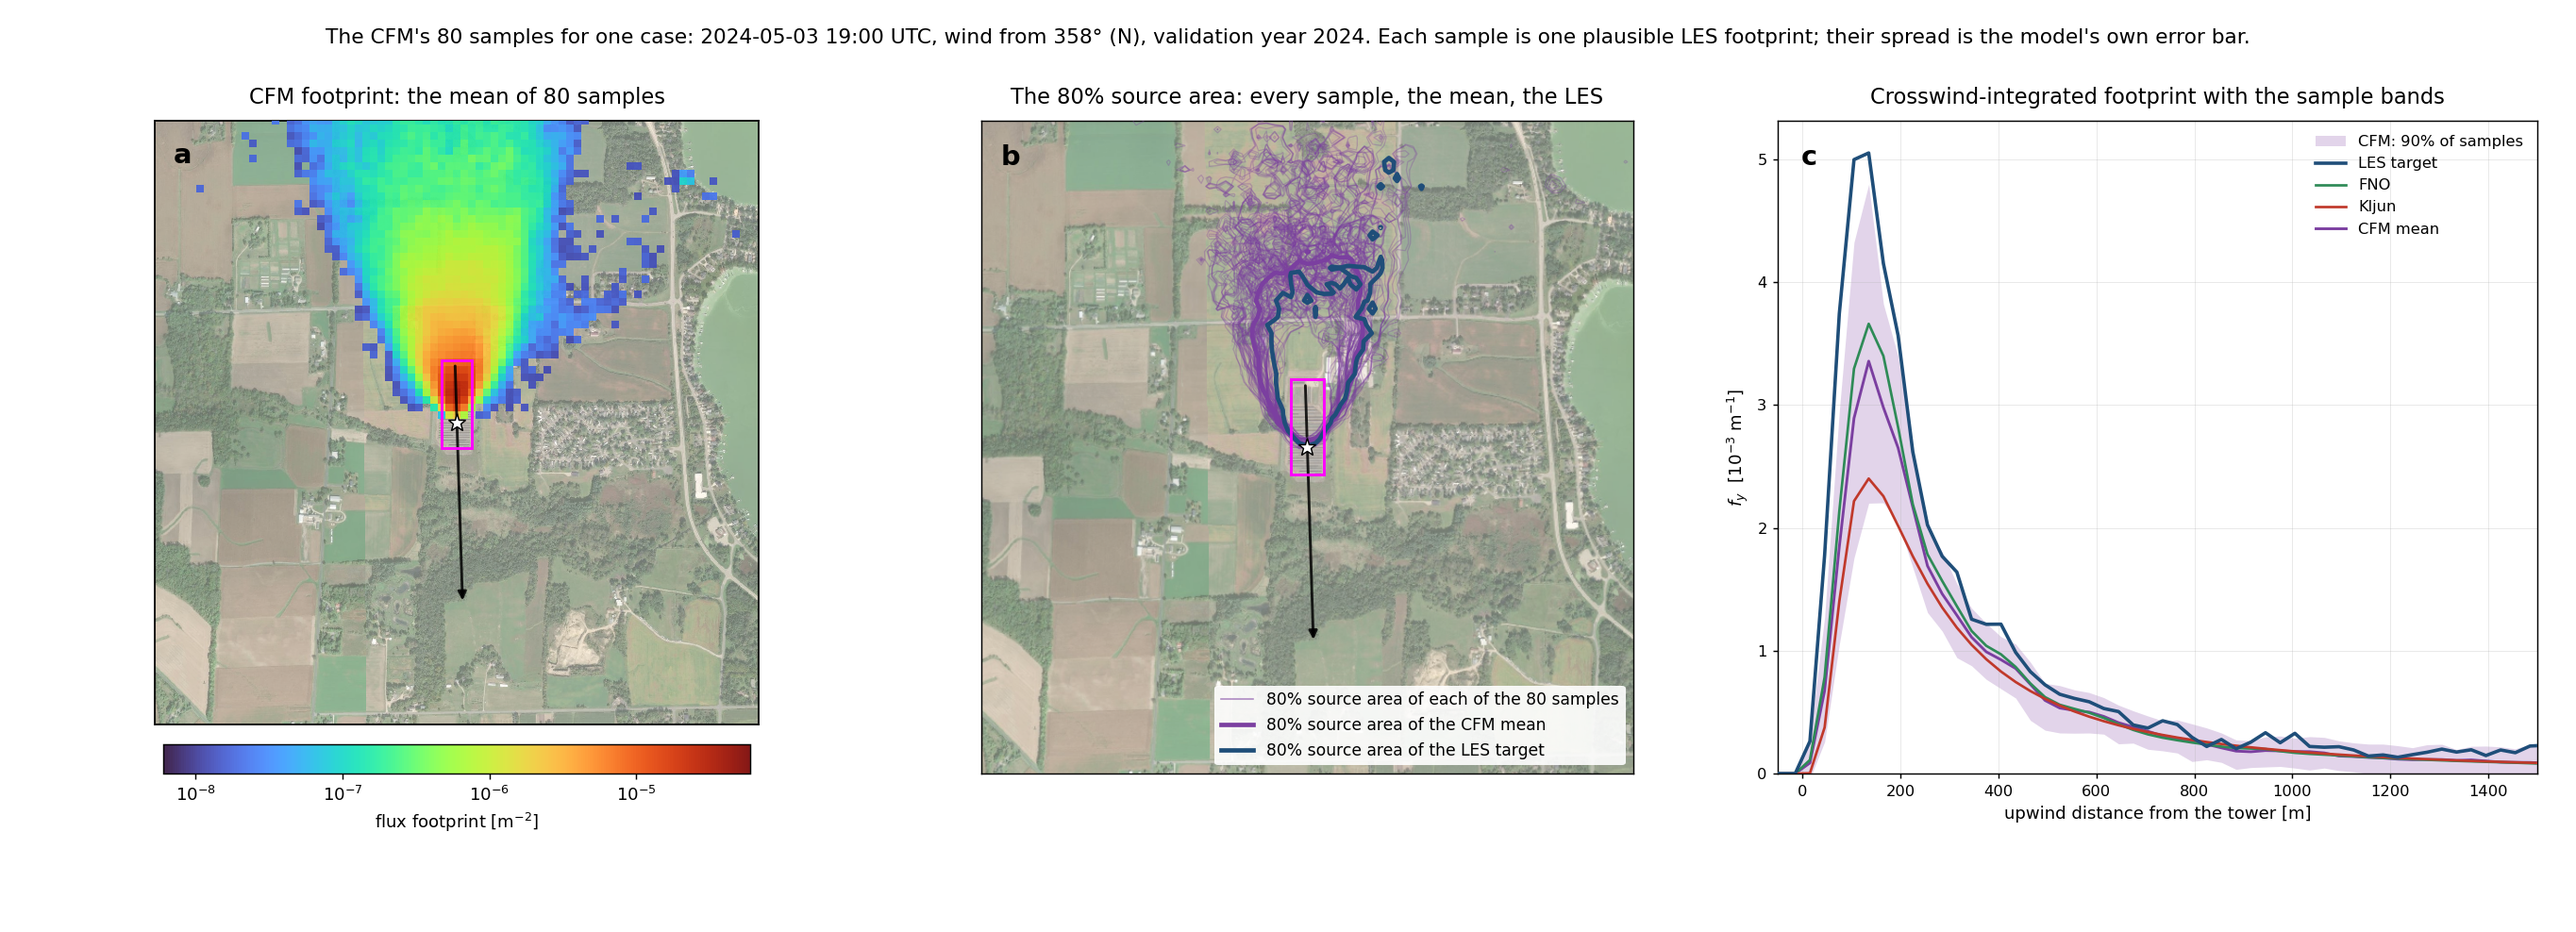
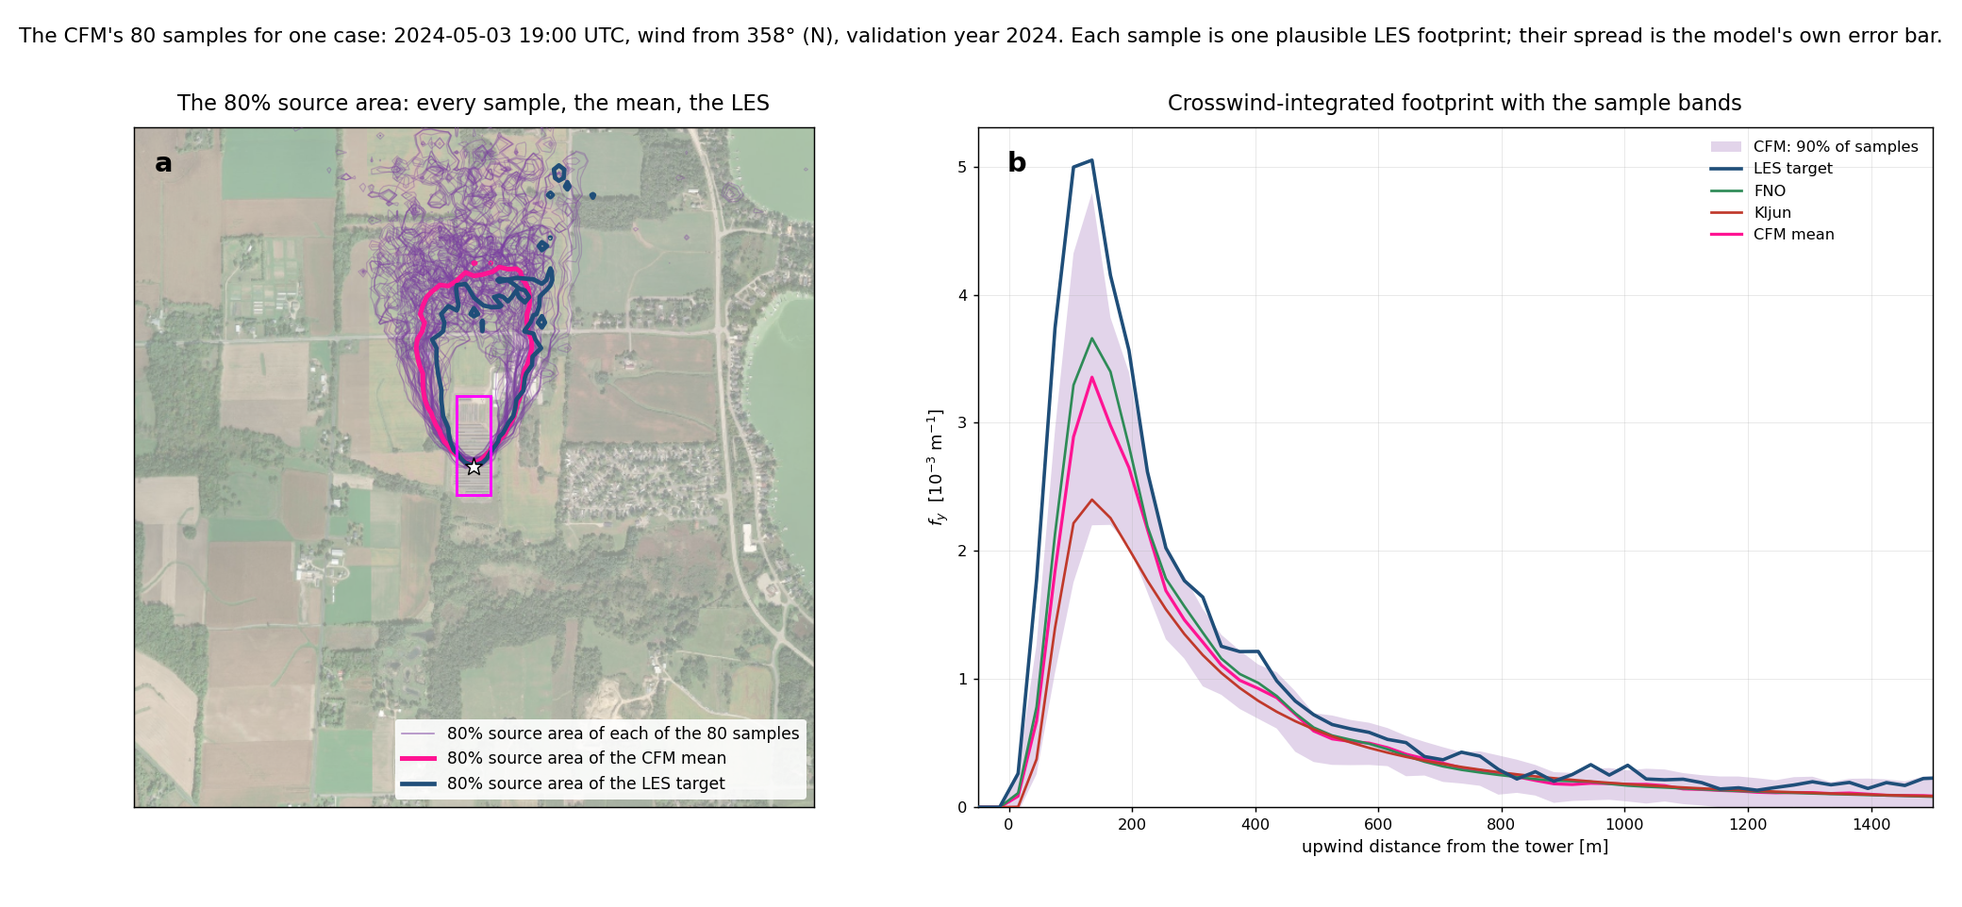
Report figures v5: arrow removed and full-saturation footprints on the showcase, two-panel generative figure with a hot-pink mean contour, perfect value in the sector titles, domain map without caption and with a spreading shadow, ECDF legends aligned

diff --git a/ml_cfm/fig_generative.py b/ml_cfm/fig_generative.py
@@ -1,6 +1,5 @@
-"""The generative figure, one case, three panels: (a) the CFM field the recipe reports, the
-mean of 80 samples, as cells over the model terrain; (b) the 80% source-area outline of every
-sample with the LES's and the CFM mean's; (c) the crosswind-integrated footprint with the 90%
+"""The generative figure, one case, two panels: (a) the 80% source-area outline of every
+sample with the LES's and the CFM mean's; (b) the crosswind-integrated footprint with the 90%
 sample band against the LES, FNO and Kljun.
 
     python -m ml_cfm.fig_generative [--split val] [--allow-test] [--case run_id]
@@ -63,43 +62,34 @@ def main(argv=None):
     x0, x1, y0, y1 = D.ARRAY_XY
 
     plt.rcParams.update({"font.family": "DejaVu Sans", "pdf.fonttype": 42})
-    fig, axes = plt.subplots(1, 3, figsize=(21, 7.6))
-    plt.subplots_adjust(left=0.03, right=0.985, top=0.87, bottom=0.17, wspace=0.12)
-    # (a) the mean
-    ax = axes[0]
-    m = FS.footprint_panel(ax, mean, float(max(tgt.max(), mean.max())), st, wd, letter="a", half=half)
-    cb = fig.colorbar(m, ax=ax, orientation="horizontal", fraction=0.045, pad=0.03)
-    lv = FS.levels(float(max(tgt.max(), mean.max())))
-    ticks = np.arange(np.ceil(lv[0]), np.floor(lv[-1]) + 0.5)
-    cb.set_ticks(ticks); cb.set_ticklabels([f"$10^{{{int(t)}}}$" for t in ticks]); cb.set_label("flux footprint [m$^{-2}$]", fontsize=10)
-    ax.set_title("CFM footprint: the mean of 80 samples", fontsize=12.5, pad=10)
+    fig, axes = plt.subplots(1, 2, figsize=(16, 7.4), gridspec_kw=dict(width_ratios=[1, 1.15]))
+    plt.subplots_adjust(left=0.03, right=0.985, top=0.86, bottom=0.11, wspace=0.10)
     # (b) the 80% source-area outline of each sample, with the LES's and the CFM mean's
-    ax = axes[1]
+    ax = axes[0]
     ax.set_facecolor("white")
     FS.background(ax, D.N * D.DX / 2)
     for s in S:
         ax.contour(xc, xc, s, levels=[level80(s)], colors=[FS.COL["cfm"]], linewidths=0.7, alpha=0.30, zorder=4)
-    ax.contour(xc, xc, mean, levels=[level80(mean)], colors=[FS.COL["cfm"]], linewidths=2.6, zorder=6)
+    ax.contour(xc, xc, mean, levels=[level80(mean)], colors=["#ff1493"], linewidths=2.8, zorder=6)
     ax.contour(xc, xc, tgt, levels=[level80(tgt)], colors=[FS.COL["les"]], linewidths=2.6, zorder=6)
     ax.add_patch(Rectangle((x0, y0), x1 - x0, y1 - y0, fill=False, ec="#ff00ff", lw=1.6, zorder=6))
     ax.plot(0, 0, marker="*", ms=11, mfc="w", mec="k", mew=0.8, zorder=7)
-    FCP.draw_wind(ax, wd, colour="k")
     ax.set_xlim(-half, half); ax.set_ylim(-half, half); ax.set_aspect("equal", adjustable="box")
     ax.set_xticks([]); ax.set_yticks([])
-    ax.text(0.03, 0.965, "b", transform=ax.transAxes, fontsize=16, fontweight="bold", va="top", ha="left", zorder=8)
+    ax.text(0.03, 0.965, "a", transform=ax.transAxes, fontsize=16, fontweight="bold", va="top", ha="left", zorder=8)
     ax.legend(handles=[Line2D([], [], color=FS.COL["cfm"], lw=0.9, alpha=0.6, label="80% source area of each of the 80 samples"),
-                       Line2D([], [], color=FS.COL["cfm"], lw=2.6, label="80% source area of the CFM mean"),
+                       Line2D([], [], color="#ff1493", lw=2.8, label="80% source area of the CFM mean"),
                        Line2D([], [], color=FS.COL["les"], lw=2.6, label="80% source area of the LES target")],
               fontsize=9.5, loc="lower right", framealpha=0.9, edgecolor="none")
     ax.set_title("The 80% source area: every sample, the mean, the LES", fontsize=12.5, pad=10)
-    # (c) crosswind-integrated footprint with bands
-    ax = axes[2]
+    # (b) crosswind-integrated footprint with bands
+    ax = axes[1]
     prof = np.stack([FCP.crosswind_integrated(s, wd)[1] for s in S]) * 1e3
     s_ = FCP.crosswind_integrated(S[0], wd)[0]
     p5, p25, p50, p75, p95 = np.percentile(prof, [5, 25, 50, 75, 95], axis=0)
-    FS.crosswind_panel(ax, [("les", tgt, "LES target"), ("fno", fno, "FNO"), ("kljun", kl, "Kljun")], wd, letter="c",
+    FS.crosswind_panel(ax, [("les", tgt, "LES target"), ("fno", fno, "FNO"), ("kljun", kl, "Kljun")], wd, letter="b",
                        legend=False, bands=(s_, p5, p25, p50, p75, p95))
-    FCP_line = ax.plot(s_, FCP.crosswind_integrated(mean, wd)[1] * 1e3, color=FS.COL["cfm"], lw=1.6, label="CFM mean")
+    ax.plot(s_, FCP.crosswind_integrated(mean, wd)[1] * 1e3, color="#ff1493", lw=1.8, label="CFM mean")
     ax.set_ylim(bottom=0)
     ax.legend(fontsize=9, frameon=False, loc="upper right")
     ax.set_title("Crosswind-integrated footprint with the sample bands", fontsize=12.5, pad=10)

diff --git a/ml_cfm/fig_domain.py b/ml_cfm/fig_domain.py
@@ -142,9 +142,6 @@ def main(argv=None):
     ax.text(sx + 500 * k, sy + 45, "1 km", color="w", ha="center", fontsize=11, weight="bold", zorder=9)
     ax.annotate("N", xy=(bx1 - 160, by0 + 620), xytext=(bx1 - 160, by0 + 300), color="w", ha="center", fontsize=16, weight="bold",
                 arrowprops=dict(arrowstyle="-|>", color="w", lw=2.5), zorder=9)
-    ax.text(bx0 + 40, by1 - 60, f"LES domain 3.66 x 3.66 km (yellow), 30 m cells.  Solar array as parameterised (magenta).\n"
-            f"Tower (star) {P6.TOWER_LAT:.5f} N, {abs(P6.TOWER_LON):.5f} W.  Contours: USGS 3DEP terrain, 5 m.", color="w", fontsize=11, va="top", zorder=9,
-            bbox=dict(fc="black", alpha=0.5, ec="none", pad=5))
     ax.text(bx1 - 40, by0 + 40, "Basemap: Esri World Imagery (Esri, Maxar, Earthstar Geographics, and the GIS User Community)",
             color="w", fontsize=8, ha="right", va="bottom", zorder=9, bbox=dict(fc="black", alpha=0.45, ec="none", pad=3))
     # the inset over the array, placed over the lake (upper right)
@@ -166,9 +163,11 @@ def main(argv=None):
     inv = ax.transData.inverted()
     (dx0, dy0), (dx1, dy1) = inv.transform([[bb.x0, bb.y0], [bb.x1, bb.y1]])
     axins.set_zorder(10)
-    for k in range(8, 0, -1):
-        off = 4.5 * k * (dx1 - dx0) / bb.width           # k * 4.5 screen px, in data units
-        ax.add_patch(Rectangle((dx0 + off, dy0 - off), dx1 - dx0, dy1 - dy0, fc="black", ec="none", alpha=0.09, zorder=9))
+    px = (dx1 - dx0) / bb.width                          # one screen pixel in data units
+    for k in range(12, 0, -1):                           # a soft shadow: spread on all sides, offset down and right
+        spread, offx, offy = 1.6 * k * px, 4.0 * px, -6.0 * px
+        ax.add_patch(Rectangle((dx0 - spread + offx, dy0 - spread + offy), (dx1 - dx0) + 2 * spread, (dy1 - dy0) + 2 * spread,
+                               fc="black", ec="none", alpha=0.07, zorder=9))
     os.makedirs(os.path.dirname(a.out), exist_ok=True)
     fig.savefig(a.out, dpi=150)
     print("wrote", a.out)

diff --git a/ml_cfm/fig_sectors.py b/ml_cfm/fig_sectors.py
@@ -64,9 +64,8 @@ def main(argv=None):
                 xs.append(k + (j - 1) * 0.24); ys.append(v); lo.append(v - l); hi.append(h - v)
             ax.errorbar(xs, ys, yerr=[lo, hi], fmt="o", ms=7, color=COL[name], ecolor=COL[name], elinewidth=1.6, capsize=4, capthick=1.4,
                         mec="white", mew=0.8, label=name, zorder=3)
-        ax.axhline(perfect, color="k", lw=1.0, ls="--", zorder=2)
         ax.set_xticks(range(4)); ax.set_xticklabels([f"{c}\nn = {int(m.sum())}" for c, m in masks.items()], fontsize=10)
-        ax.set_title(label, fontsize=12, pad=8); ax.grid(axis="y", alpha=0.3, lw=0.6); ax.tick_params(axis="y", labelsize=9)
+        ax.set_title(f"{label}   (perfect = {perfect})", fontsize=12, pad=8); ax.grid(axis="y", alpha=0.3, lw=0.6); ax.tick_params(axis="y", labelsize=9)
         ax.set_xlim(-0.6, 3.6)
         if perfect == 1:
             ax.set_ylim(top=1.0 + 0.02 * (1.0 - ax.get_ylim()[0]))
@@ -75,8 +74,7 @@ def main(argv=None):
         for sp in ("top", "right"):
             ax.spines[sp].set_visible(False)
     h, l = axes[0, 0].get_legend_handles_labels()
-    fig.legend(h + [plt.Line2D([], [], color="k", ls="--", lw=1.0)], l + ["perfect (the LES scored against itself)"],
-               loc="upper center", ncol=4, fontsize=11, frameon=False, bbox_to_anchor=(0.5, 0.935))
+    fig.legend(h, l, loc="upper center", ncol=3, fontsize=11, frameon=False, bbox_to_anchor=(0.5, 0.935))
     year = {"val": "validation year 2024", "test": "test year 2025"}.get(a.split, a.split)
     fig.suptitle(f"Metrics by wind sector, {year}: 90° sectors centred on N, E, S, W.  RMSE over the sector's records for the three errors, "
                  "mean for the five scores; whiskers = 95% record-bootstrap interval.", fontsize=12.5, y=0.985)

diff --git a/ml_cfm/figstyle.py b/ml_cfm/figstyle.py
@@ -86,13 +86,13 @@ def imagery_on_grid(npx=1024, zoom=16):
     return _IMG
 
 
-def background(ax, half, alpha=0.6):
+def background(ax, half, alpha=0.5):
     """The imagery under a footprint panel, washed towards white by (1 - alpha)."""
     img = imagery_on_grid()
     ax.imshow(img, extent=[-half, half, -half, half], origin="lower", interpolation="bilinear", alpha=alpha, zorder=1)
 
 
-def footprint_panel(ax, f, vmax, statics, wdir_deg, letter=None, half=1830.0, cmap="turbo", terrain=True, alpha=0.92):
+def footprint_panel(ax, f, vmax, statics, wdir_deg, letter=None, half=1830.0, cmap="turbo", terrain=True, alpha=1.0, arrow=False):
     """The footprint as cells (no interpolation) on the turbo map over translucent Esri imagery,
     example_plot.py style: letter top-left, no ticks. Returns the mappable."""
     import fig_corpus_pairs as FCP
@@ -109,7 +109,8 @@ def footprint_panel(ax, f, vmax, statics, wdir_deg, letter=None, half=1830.0, cm
     x0, x1, y0, y1 = D.ARRAY_XY
     ax.add_patch(Rectangle((x0, y0), x1 - x0, y1 - y0, fill=False, ec="#ff00ff", lw=1.6, zorder=6))
     ax.plot(0, 0, marker="*", ms=11, mfc="w", mec="k", mew=0.8, zorder=7)
-    FCP.draw_wind(ax, wdir_deg, colour="k")
+    if arrow:
+        FCP.draw_wind(ax, wdir_deg, colour="k")
     ax.set_xlim(-half, half); ax.set_ylim(-half, half); ax.set_aspect("equal", adjustable="box")
     ax.set_xticks([]); ax.set_yticks([])
     if letter:

diff --git a/ml_cfm/fig_distributions.py b/ml_cfm/fig_distributions.py
@@ -57,7 +57,7 @@ def main(argv=None):
                 xlabel += f"  (perfect = {perfect}, off the {'left' if perfect < lo else 'right'} edge)"
         ax.set_xlabel(xlabel, fontsize=9)
         ax.tick_params(labelsize=8.5); ax.grid(alpha=0.3, lw=0.5)
-        ax.legend(fontsize=8.5, frameon=False, loc="lower right" if perfect == 0 else "upper left")
+        ax.legend(fontsize=8.5, frameon=False, loc="lower right")
     year = {"val": "validation year 2024", "test": "test year 2025"}.get(a.split, a.split)
     fig.suptitle(f"Every record's score, {year} (n = {n}): cumulative distributions per model; dot = median; dashed = perfect where it is in range; "
                  "every axis is cut to the central 90% of records", fontsize=11.5, y=0.99)

diff --git a/ml_cfm/fig_showcase.py b/ml_cfm/fig_showcase.py
@@ -104,7 +104,7 @@ def main(argv=None):
     lv = FS.levels(vmax)
     ticks = np.arange(np.ceil(lv[0]), np.floor(lv[-1]) + 0.5)
     cb.set_ticks(ticks); cb.set_ticklabels([f"$10^{{{int(t)}}}$" for t in ticks])
-    cb.set_label("flux footprint  [m$^{-2}$]      star = tower,  magenta = solar array,  arrow = wind,  background = Esri World Imagery", fontsize=13)
+    cb.set_label("flux footprint  [m$^{-2}$]      star = tower,  magenta = solar array,  background = Esri World Imagery", fontsize=13)
     cb.ax.tick_params(labelsize=11)
     os.makedirs(os.path.dirname(out), exist_ok=True)
     fig.savefig(out, dpi=130)

diff --git a/results/ml_cfm/TIMELINE.md b/results/ml_cfm/TIMELINE.md
@@ -34,3 +34,4 @@
 - 2026-09-04 figures v2 on val: showcase (turbo contourf, example_plot style, per-case table, bottom colourbar), generative (3 panels), sectors (+rose), distributions (ECDF), domain map on Esri imagery; gate PASS
 - 2026-09-04 figures v3 on val: showcase on USGS terrain, cells, equal boxes, detached colourbar; generative contour cloud + 90% band; rose zoomed per panel; ECDF log axes; domain inset over the lake with 3DEP contours; gate PASS
 - 2026-09-04 figures v4 on val: Esri imagery under the showcase and generative panels, domain inset with a drop shadow and no connectors, sector dots refined (rose dropped), ECDFs cut to the central 90%; gate PASS
+- 2026-09-04 figures v5 on val: no wind arrow, full-saturation footprints; generative two panels with hot-pink mean contour; sectors without the perfect line; domain without caption, 3-side shadow; ECDF legends lower right; gate PASS
